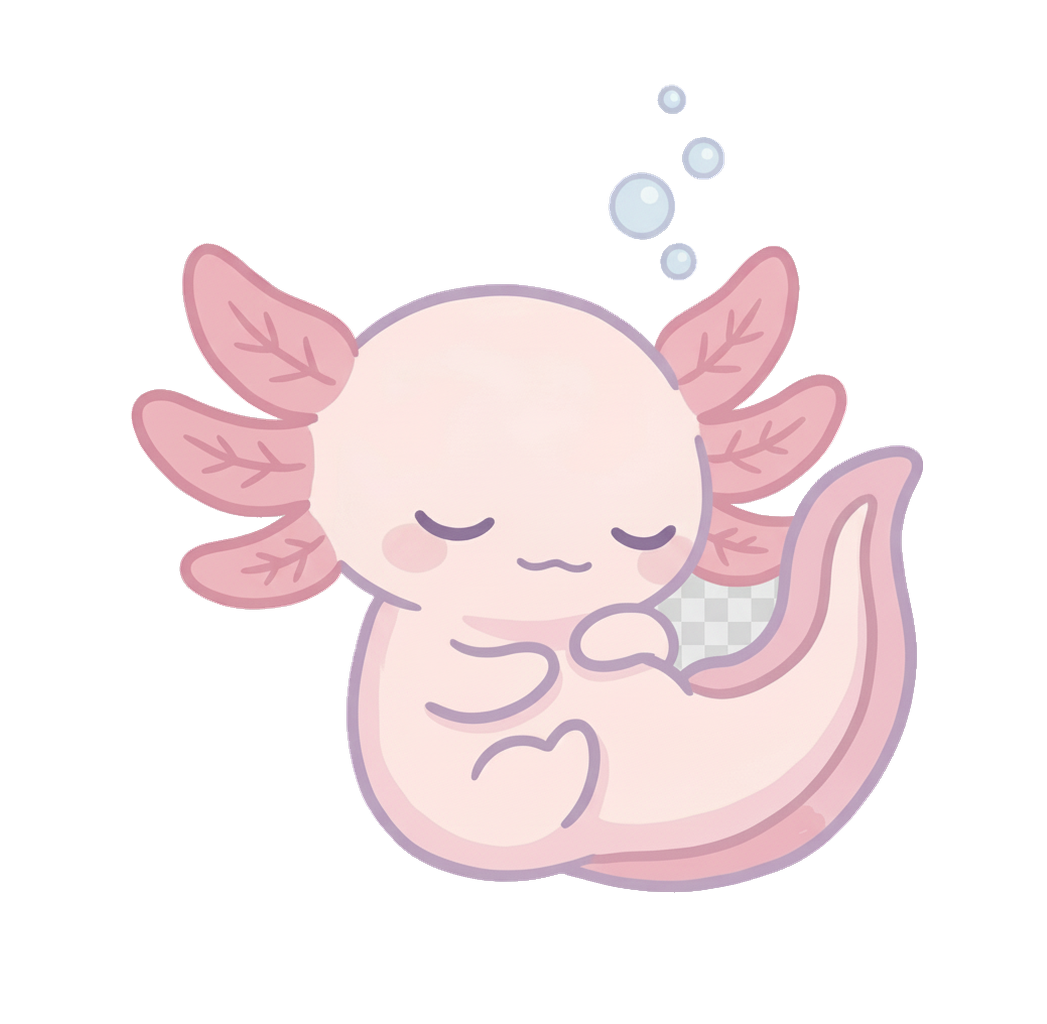
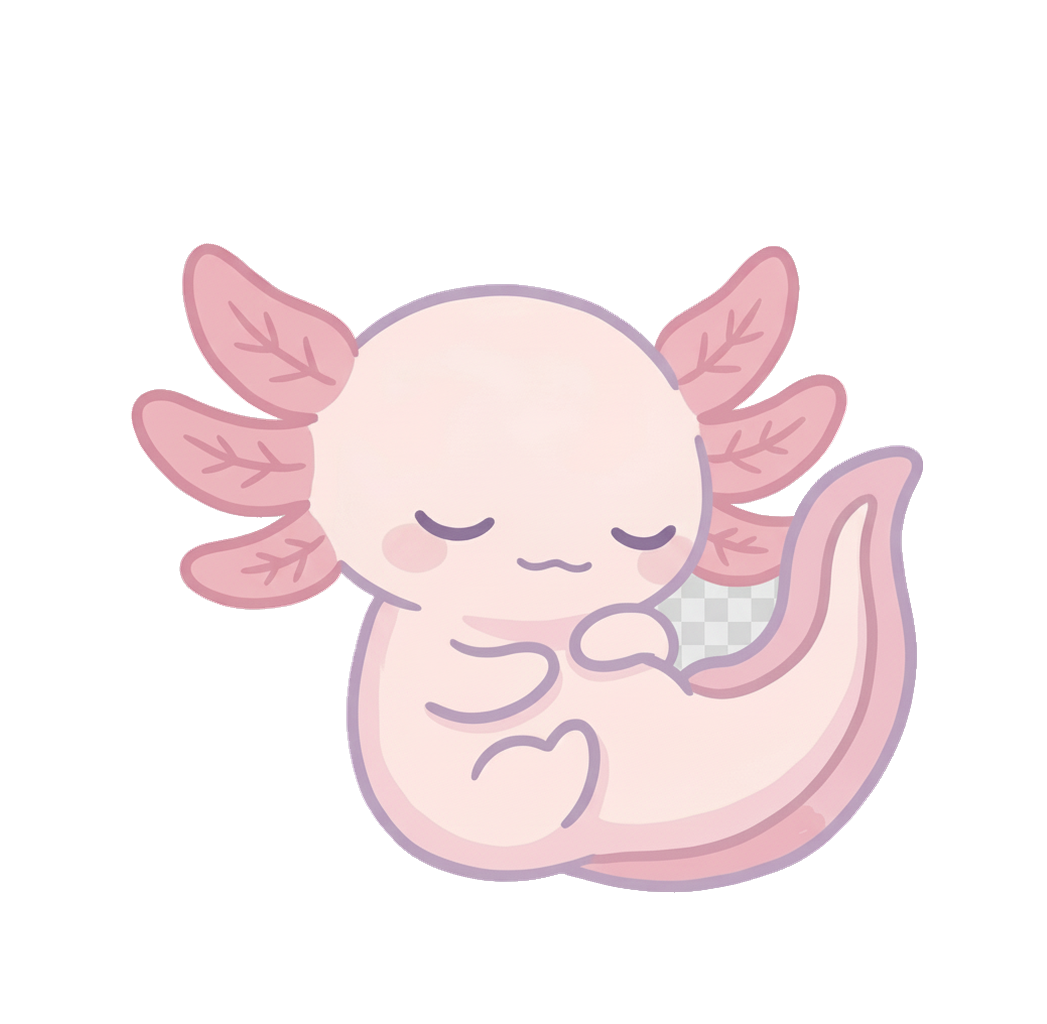
Correcciones de feedback: diagonal, swim_up, fondo, nenúfares y boost
Sprites:
- swim_diagonal_02: las branquias habían salido mucho más elaboradas
  que el frame 1 y aparecía un trazo de boca duplicado. Regenerado
  igualando la forma de branquia y con boca única.
- swim_up_02: se veía completamente de frente (simétrica), distinta al
  resto del ciclo. Regenerada con el mismo ángulo de perfil que las
  demás.
- Quitadas las burbujas dibujadas dentro de los propios frames de Lumi
  (idle, swim_up, swim_diagonal, sleep, boost): se detectan por color
  (no forman parte del cuerpo principal) y se hacen transparentes. Las
  burbujas de verdad las pone el sistema de partículas.

Fondo y mundo:
- background_far ya no muestra costura al repetirse: se genera una
  textura espejada (original + copia volteada) una sola vez, así el
  tileado nunca corta en seco.
- Rocas/plantas del fondo del estanque se acercan al punto de partida
  (relativas a la altura de cámara) para que se vean desde el primer
  fotograma — la partida empieza literalmente en el fondo del estanque.
- Nuevos objetos decorativos de fondo (piedra, concha, estrella de
  mar) generados a partir del estilo de las rocas existentes,
  repartidos sin colisión mientras se sube (BackgroundDecorSpawner).

Jugabilidad:
- Nenúfares reducidos a un 30% de su tamaño anterior.
- La pose "boost" dedicada no convencía: el impulso ahora reutiliza la
  animación swim_up, con una explosión de partículas de burbujas al
  tocar el nenúfar en su lugar.
[…]

Changed region(s): [[0.5807, 0.0625, 0.703, 0.2812]]

diff --git a/src/scenes/PondScene.ts b/src/scenes/PondScene.ts
@@ -1,6 +1,7 @@
 import Phaser from "phaser";
 import { GAME_OVER_MARGIN, START_Y, WORLD_HEIGHT, WORLD_WIDTH } from "@/config/GameConfig";
 import { Lumi } from "@/entities/Lumi";
+import { BackgroundDecorSpawner } from "@/systems/BackgroundDecorSpawner";
 import { BackgroundFishField } from "@/systems/BackgroundFishField";
 import { BubbleField } from "@/systems/BubbleField";
 import { InputController } from "@/systems/InputController";
@@ -20,6 +21,9 @@ export class PondScene extends Phaser.Scene {
   private skyLayer!: ParallaxLayer;
   private fishField!: BackgroundFishField;
   private lilyPadSpawner!: LilyPadSpawner;
+  private decorSpawner!: BackgroundDecorSpawner;
+  private boostBurst!: Phaser.GameObjects.Particles.ParticleEmitter;
+  private boostBurstSmall!: Phaser.GameObjects.Particles.ParticleEmitter;
   private scoreText!: Phaser.GameObjects.Text;
   private gameOverText!: Phaser.GameObjects.Text;
   private bestHeight = 0;
@@ -41,9 +45,33 @@ export class PondScene extends Phaser.Scene {
 
     const cam = this.cameras.main;
 
+    // El PNG de background_far no está pensado para repetirse verticalmente
+    // sin fin (tiene una única fuente de luz arriba): al tilearlo tal cual
+    // se nota mucho la costura entre una copia y la siguiente. Se
+    // construye una textura "espejada" (original + copia volteada debajo)
+    // una sola vez: al repetir ESA textura, el borde de una copia siempre
+    // conecta con su propio reflejo, así que no hay corte visible en
+    // ningún punto de la repetición.
+    const bgKey = pondLayerKey("background_far");
+    const seamlessKey = "background_far_seamless";
+    if (!this.textures.exists(seamlessKey)) {
+      const bgImg = this.textures.get(bgKey).getSourceImage() as HTMLImageElement;
+      const w = bgImg.width;
+      const h = bgImg.height;
+      const canvasTex = this.textures.createCanvas(seamlessKey, w, h * 2)!;
+      const ctx = canvasTex.getContext();
+      ctx.drawImage(bgImg, 0, 0);
+      ctx.save();
+      ctx.translate(0, h * 2);
+      ctx.scale(1, -1);
+      ctx.drawImage(bgImg, 0, 0);
+      ctx.restore();
+      canvasTex.refresh();
+    }
+
     // El cielo/agua de fondo es un degradado continuo: tilearlo cubre
     // cualquier tamaño de mundo sin huecos ni costuras visibles.
-    this.skyLayer = new ParallaxLayer(this, pondLayerKey("background_far"), 0.15, 0);
+    this.skyLayer = new ParallaxLayer(this, seamlessKey, 0.15, 0);
 
     // Peces de fondo, muy detrás de las rocas/plantas (parallax lento,
     // escala pequeña, teñido suave) para dar sensación de profundidad sin
@@ -51,17 +79,24 @@ export class PondScene extends Phaser.Scene {
     // BackgroundFishField.update), no dependen de una altura de mundo fija.
     this.fishField = new BackgroundFishField(this, WORLD_WIDTH, cam.height, 0.5, 0.25);
 
-    // Rocas/plantas son decoración de la zona de salida: se ven al empezar
-    // y quedan atrás para siempre al subir (como el suelo en Doodle Jump),
-    // ya no se anclan al fondo de un mundo ahora gigante.
+    // Objetos de fondo (piedras, conchas, estrellas): decoración pura, sin
+    // colisión, para que la subida no se sienta tan vacía entre nenúfares.
+    this.decorSpawner = new BackgroundDecorSpawner(this, WORLD_WIDTH, START_Y, 1.8, 0.4);
+
+    // Rocas/plantas son decoración de la zona de salida — el "fondo del
+    // estanque" de verdad. Se anclan cerca de START_Y (no del viejo fondo
+    // de un mundo ahora gigante) para que se vean desde el primer
+    // fotograma: la partida arranca literalmente en el fondo del
+    // estanque, y esa decoración queda atrás para siempre al subir (como
+    // el suelo en Doodle Jump).
     this.add
-      .image(WORLD_WIDTH / 2, START_Y + 550, pondLayerKey("rocks_back"))
+      .image(WORLD_WIDTH / 2, START_Y + cam.height * 0.3, pondLayerKey("rocks_back"))
       .setOrigin(0.5, 1)
       .setScrollFactor(0.35)
       .setDepth(1);
 
     this.add
-      .image(WORLD_WIDTH / 2, START_Y + 700, pondLayerKey("distant_plants"))
+      .image(WORLD_WIDTH / 2, START_Y + cam.height * 0.38, pondLayerKey("distant_plants"))
       .setOrigin(0.5, 1)
       .setScrollFactor(0.55)
       .setDepth(3);
@@ -70,18 +105,37 @@ export class PondScene extends Phaser.Scene {
     this.lumi.sprite.setDepth(5);
     new LumiBubbleTrail(this, this.lumi.sprite, 4.6);
 
+    // Explosión de burbujas al tocar un nenúfar: vende el impulso mucho
+    // mejor que una pose nueva. "emitting: false" porque solo se disparan
+    // a mano (explode) en el momento del boost, no de forma continua.
+    const burstConfig: Phaser.Types.GameObjects.Particles.ParticleEmitterConfig = {
+      speed: { min: 90, max: 240 },
+      angle: { min: 200, max: 340 },
+      lifespan: { min: 350, max: 700 },
+      alpha: { start: 0.9, end: 0 },
+      emitting: false,
+    };
+    this.boostBurst = this.add
+      .particles(0, 0, "bubble_big", { ...burstConfig, scale: { start: 0.4, end: 0.05 } })
+      .setDepth(6);
+    this.boostBurstSmall = this.add
+      .particles(0, 0, "bubble_small", { ...burstConfig, scale: { start: 0.35, end: 0.05 } })
+      .setDepth(6);
+
     // Nenúfares: uno de salida en la misma posición de siempre, y el resto
     // se generan sin parar según Lumi sube. Tocar cualquiera da un boost.
     this.lilyPadSpawner = new LilyPadSpawner(this, WORLD_WIDTH, 562, START_Y - 158);
     this.physics.add.overlap(this.lumi.sprite, this.lilyPadSpawner.group, () => {
       this.lumi.triggerBoost();
+      this.boostBurst.explode(10, this.lumi.sprite.x, this.lumi.sprite.y);
+      this.boostBurstSmall.explode(16, this.lumi.sprite.x, this.lumi.sprite.y);
     });
 
     // foreground_plants queda detrás de Lumi por ahora: es una franja
     // continua de un borde a otro del mundo, así que delante la taparía
     // casi todo el rato en vez de solo "pasar por delante" ocasionalmente.
     this.add
-      .image(WORLD_WIDTH / 2, START_Y + 700, pondLayerKey("foreground_plants"))
+      .image(WORLD_WIDTH / 2, START_Y + cam.height * 0.42, pondLayerKey("foreground_plants"))
       .setOrigin(0.5, 1)
       .setScrollFactor(1)
       .setDepth(4);
@@ -164,6 +218,7 @@ export class PondScene extends Phaser.Scene {
     this.skyLayer.update(cam);
     this.fishField.update(time, delta, cam.scrollY, cam.height);
     this.lilyPadSpawner.update(cam.scrollY, cam.scrollY + cam.height);
+    this.decorSpawner.update(cam.scrollY, cam.scrollY + cam.height);
 
     this.bestHeight = Math.max(this.bestHeight, START_Y - this.lumi.sprite.y);
     this.scoreText.setText(`Altura: ${Math.round(this.bestHeight / 10)}`);

diff --git a/src/systems/BackgroundDecorSpawner.ts b/src/systems/BackgroundDecorSpawner.ts
@@ -1,0 +1,57 @@
+import Phaser from "phaser";
+
+export const DECOR_KEYS = ["decor_pebble", "decor_shell", "decor_starfish"];
+
+const MIN_GAP = 260;
+const MAX_GAP = 520;
+const SPAWN_LOOKAHEAD = 900;
+const DESPAWN_MARGIN = 1200;
+
+/**
+ * Objetos de fondo puramente decorativos (piedras, conchas, estrellas):
+ * sin física, sin colisión, solo para que el camino hacia arriba no se
+ * sienta vacío. Se generan y reciclan igual que los nenúfares.
+ */
+export class BackgroundDecorSpawner {
+  private items: Phaser.GameObjects.Image[] = [];
+  private highestY: number;
+
+  constructor(
+    private scene: Phaser.Scene,
+    private worldWidth: number,
+    startY: number,
+    private depth: number,
+    private scrollFactor: number,
+  ) {
+    this.highestY = startY;
+  }
+
+  private spawnAt(y: number) {
+    const key = Phaser.Utils.Array.GetRandom(DECOR_KEYS);
+    const x = Phaser.Math.Between(60, this.worldWidth - 60);
+    const scale = Phaser.Math.FloatBetween(0.12, 0.22);
+    const item = this.scene.add
+      .image(x, y, key)
+      .setScale(scale)
+      .setScrollFactor(this.scrollFactor)
+      .setDepth(this.depth)
+      .setAlpha(0.9)
+      .setAngle(Phaser.Math.Between(-15, 15))
+      .setFlipX(Math.random() < 0.5);
+    this.items.push(item);
+    if (y < this.highestY) this.highestY = y;
+  }
+
+  update(cameraTopY: number, cameraBottomY: number) {
+    while (this.highestY > cameraTopY - SPAWN_LOOKAHEAD) {
+      this.highestY -= Phaser.Math.Between(MIN_GAP, MAX_GAP);
+      this.spawnAt(this.highestY);
+    }
+
+    this.items = this.items.filter((item) => {
+      if (item.y <= cameraBottomY + DESPAWN_MARGIN) return true;
+      item.destroy();
+      return false;
+    });
+  }
+}

diff --git a/src/entities/Lumi.ts b/src/entities/Lumi.ts
@@ -12,8 +12,7 @@ type LumiState =
   | "swim_up_right"
   | "swim_up_left"
   | "swim_down_right"
-  | "swim_down_left"
-  | "boost";
+  | "swim_down_left";
 
 const BOOST_DURATION_MS = 550;
 const BOOST_SPEED = LUMI_SWIM_SPEED * 2.2;
@@ -48,7 +47,10 @@ export class Lumi {
     if (this.boostRemainingMs > 0) {
       this.boostRemainingMs -= deltaMs;
       body.setVelocity(0, -BOOST_SPEED);
-      this.setState("boost");
+      // La pose "boost" dedicada no convencía visualmente: el impulso
+      // reutiliza la propia animación de nadar hacia arriba (más partículas
+      // de por medio, ver PondScene), no un pose nuevo.
+      this.setState("swim_up");
       return;
     }
 
@@ -129,10 +131,6 @@ export class Lumi {
       case "swim_down_left":
         this.sprite.setFlip(true, true);
         this.sprite.play("swim_diagonal");
-        break;
-      case "boost":
-        this.sprite.setFlip(false, false);
-        this.sprite.play("boost");
         break;
     }
   }

diff --git a/src/scenes/BootScene.ts b/src/scenes/BootScene.ts
@@ -2,6 +2,7 @@ import Phaser from "phaser";
 import { LUMI_FRAME_COUNT, frameKey, framePath } from "@/config/LumiAnimConfig";
 import { registerLumiAnimations } from "@/systems/AnimationRegistry";
 import { FISH_KEYS } from "@/systems/BackgroundFishField";
+import { DECOR_KEYS } from "@/systems/BackgroundDecorSpawner";
 
 // Capas de fondo que existen ahora mismo en /assets/backgrounds/pond/.
 // water_overlay.png no se ha generado todavía — se omite y se reporta,
@@ -43,6 +44,10 @@ export class BootScene extends Phaser.Scene {
     }
 
     this.load.image("lily_pad_01", "/objects/lily_pad/lily_pad_01.png");
+
+    this.load.image("decor_pebble", "/objects/decor/pebble.png");
+    this.load.image("decor_shell", "/objects/decor/shell.png");
+    this.load.image("decor_starfish", "/objects/decor/starfish.png");
   }
 
   create() {

diff --git a/src/config/LumiAnimConfig.ts b/src/config/LumiAnimConfig.ts
@@ -8,13 +8,16 @@
 // del proyecto se derivan por código (flip) de swim_up y swim_right. Las
 // diagonales usan su propia carpeta swim_diagonal (pose dedicada, ya no un
 // flip reciclado de swim_up), y también se derivan entre sí por flip.
+//
+// boost/ ya no se usa: la pose dedicada no convencía, el impulso del
+// nenúfar ahora reutiliza la animación swim_up (ver Lumi.ts). El archivo
+// se queda en disco por si se retoma más adelante, solo se quitó de aquí.
 export const LUMI_FRAME_COUNT: Record<string, number> = {
   idle: 4,
   sleep: 3,
   swim_right: 4,
   swim_up: 4,
   swim_diagonal: 2,
-  boost: 1,
 };
 
 export const LUMI_FPS = 8; // pedido en el ejemplo de STYLE_GUIDE.md

diff --git a/src/entities/LilyPad.ts b/src/entities/LilyPad.ts
@@ -1,4 +1,5 @@
 import Phaser from "phaser";
+import { LILY_PAD_SCALE } from "@/config/GameConfig";
 
 /**
  * Nenúfar interactivo: un cuerpo estático que, al tocarlo Lumi, dispara un
@@ -10,6 +11,9 @@ export class LilyPad {
 
   constructor(scene: Phaser.Scene, x: number, y: number) {
     this.sprite = scene.physics.add.staticImage(x, y, "lily_pad_01");
+    this.sprite.setScale(LILY_PAD_SCALE);
     this.sprite.setDepth(2.5);
+    // Los cuerpos estáticos no recalculan su hitbox solos al escalar.
+    this.sprite.refreshBody();
   }
 }

diff --git a/src/config/GameConfig.ts b/src/config/GameConfig.ts
@@ -39,6 +39,9 @@ export const LUMI_DRIFT_SPEED = 55; // px/seg, hacia abajo
 export const LILY_PAD_MIN_GAP = 180;
 export const LILY_PAD_MAX_GAP = 320;
 
+// Pedido explícito: 70% más pequeños que el tamaño nativo del recorte.
+export const LILY_PAD_SCALE = 0.3;
+
 // Si Lumi cae más allá de esto por debajo del borde inferior de la
 // cámara, se considera que ha caído del todo: game over.
 export const GAME_OVER_MARGIN = 200;
